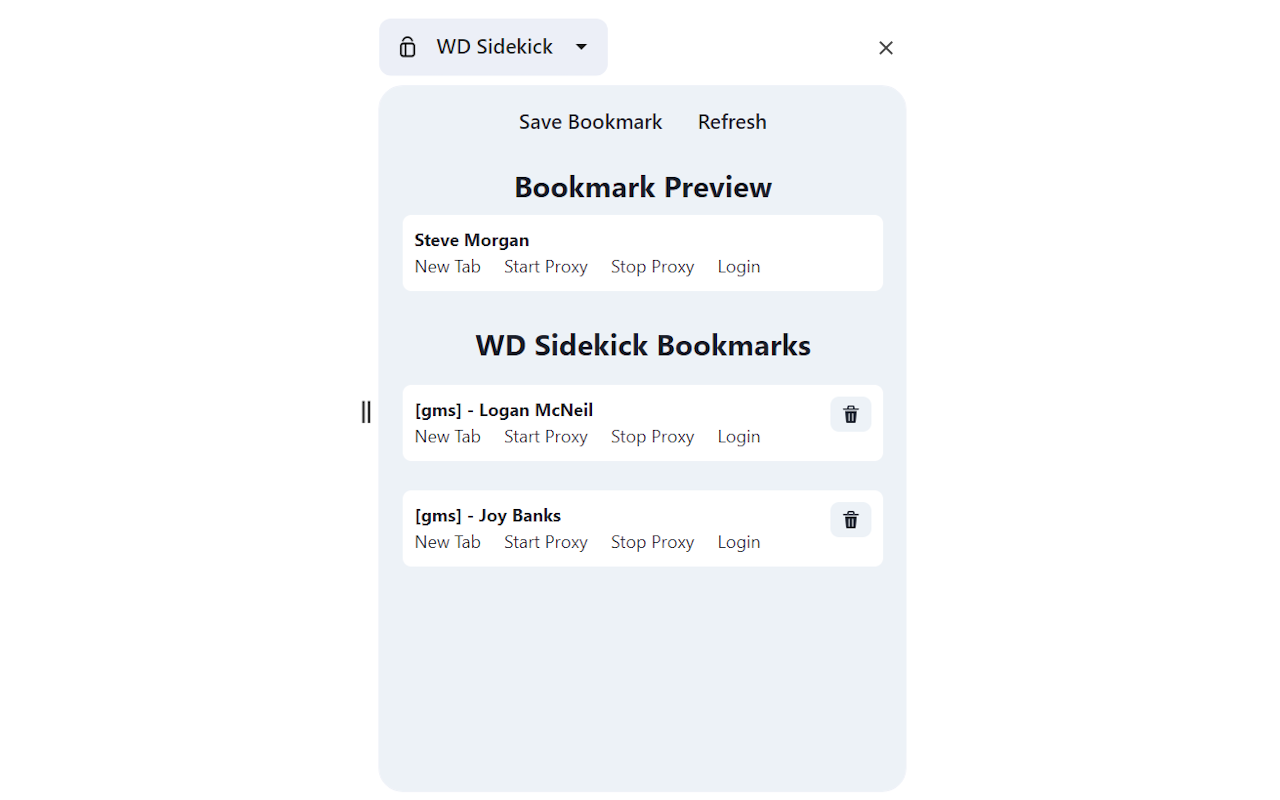
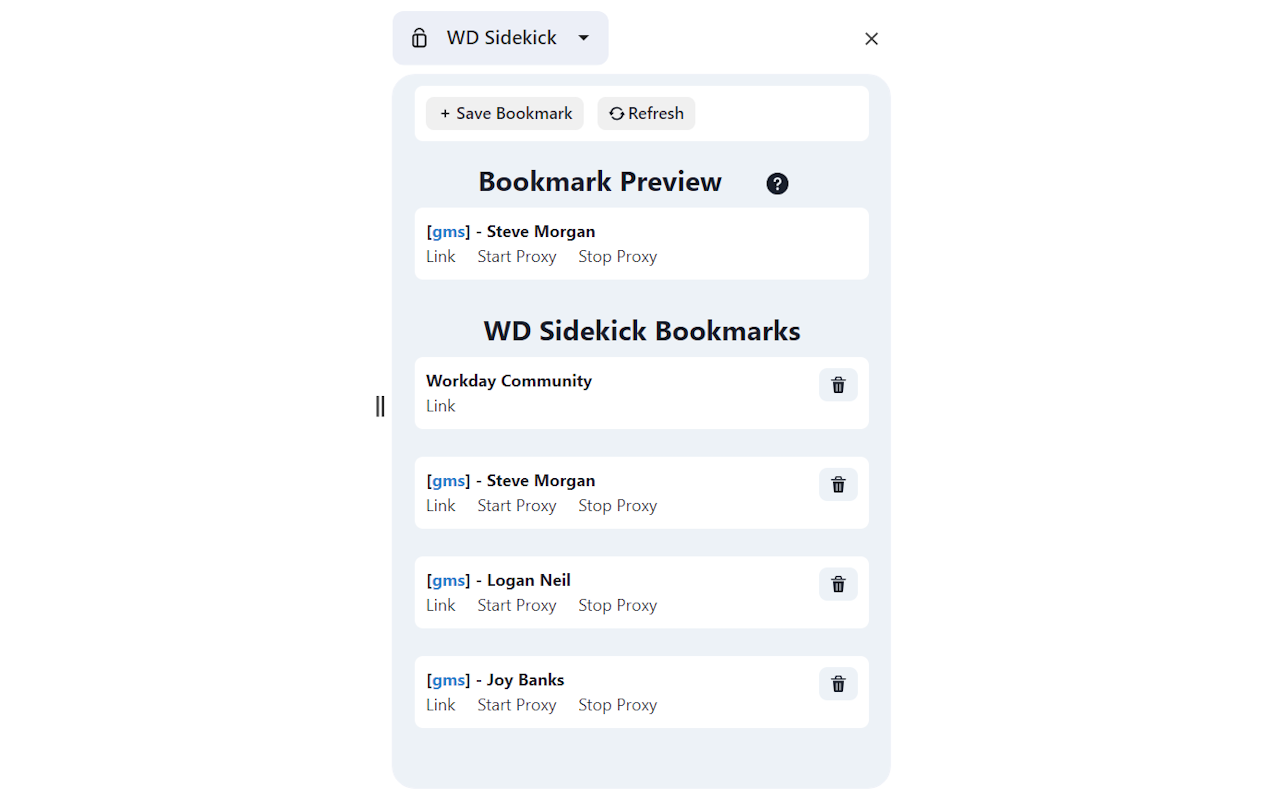
v1.0.1+

diff --git a/config/manifest/chrome.js b/config/manifest/chrome.js
@@ -5,13 +5,5 @@ module.exports = {
 
   // Replace with your Chrome extension public key to maintain consistent extension id
   // see https://stackoverflow.com/questions/21497781/how-to-change-chrome-packaged-app-id-or-why-do-we-need-key-field-in-the-manifest/21500707#21500707
-  key: `-----BEGIN PUBLIC KEY-----
[6 lines of base64/hex data omitted]
-  aQIDAQAB
-  -----END PUBLIC KEY-----`
[1 lines of base64/hex data omitted]
 };

diff --git a/src/util/wdLinkUtil.ts b/src/util/wdLinkUtil.ts
@@ -4,10 +4,6 @@ export const wdLinkUpdate = (wdLink: WDLink) => {
     try {
       if (wdLink) {
         const uriArr = wdLink.url.split('/');
-        if (uriArr.length > 3 && wdLink.url.indexOf("workday") > 0) {
-          wdLink.tenant = uriArr[3];
-        }
-
         if (wdLink.url.indexOf('/inst/') > 0) {        
           var uri = wdLink.url.substring(0, wdLink.url.indexOf('/d/inst/'));
           var workerId = wdLink.url.substring(wdLink.url.lastIndexOf('/')+1).split('.')[0];
@@ -15,6 +11,9 @@ export const wdLinkUpdate = (wdLink: WDLink) => {
             wdLink.proxy = uri + '/d/inst/' + workerId + '/rel-task/2997$7270.htmld';
             wdLink.stopProxy = uri + '/d/task/2997$12115.htmld';
             wdLink.login = uri + '/login.htmld?redirect=n';
+            if (uriArr.length > 3 && wdLink.url.indexOf("workday") > 0) {
+              wdLink.tenant = uriArr[3];
+            }
           }        
         }
       }

diff --git a/src/sidePanel/SidePanelApp.tsx b/src/sidePanel/SidePanelApp.tsx
@@ -219,8 +219,8 @@ const SidePanelApp = () => {
               <PopoverArrow />
               <PopoverCloseButton />
               <PopoverHeader>Bookmark Preview</PopoverHeader>
-              <PopoverBody><OrderedList><ListItem>Right-click or Control-Click a Workday object link.</ListItem>
-                    <ListItem>Mouseover any link in the popup.</ListItem>
+              <PopoverBody><OrderedList><ListItem>Right-click or control-click a Workday object link.</ListItem>
+                    <ListItem>Hover over any link in the pop up.</ListItem>
                     <ListItem>Click Refresh (above) if the Bookmark Preview does not change.</ListItem>
                     <ListItem>Click Save Bookmark to save the previewed bookmark.</ListItem>
                     </OrderedList>

diff --git a/src/content/controllers/CursorController.tsx b/src/content/controllers/CursorController.tsx
@@ -53,11 +53,10 @@ class CursorController implements ContentProvider {
 
           if (copyUrl?.hasAttribute("data-clipboard-text")) {
             wdLink.url = copyUrl.getAttribute("data-clipboard-text") + "";
-            wdLink = wdLinkUpdate(wdLink);
+            let newWDLink = wdLinkUpdate(wdLink);
+            this.store.dispatch(setWDLink(newWDLink));  
           }
-        }
-        
-        this.store.dispatch(setWDLink(wdLink));        
+        }     
       }      
     }
     catch (e) {} 
